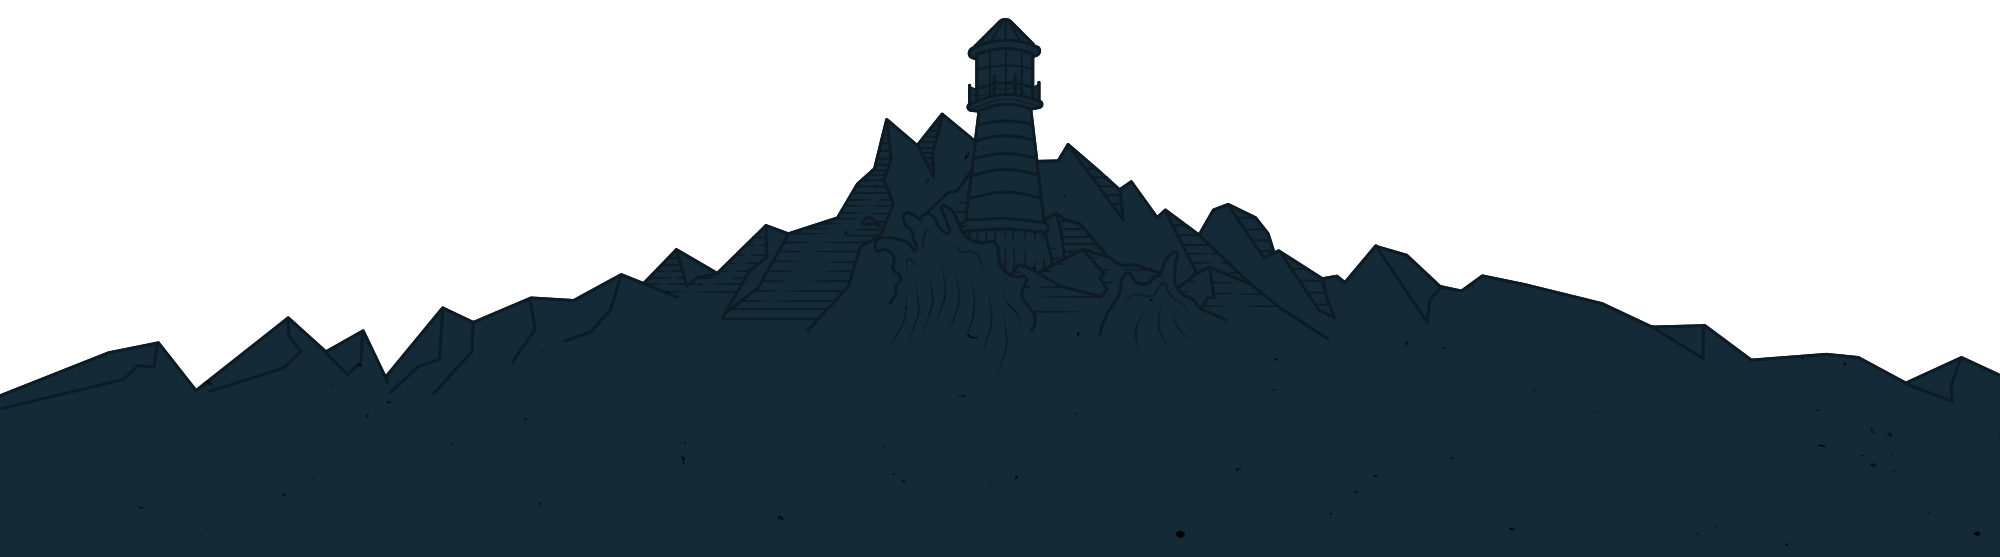
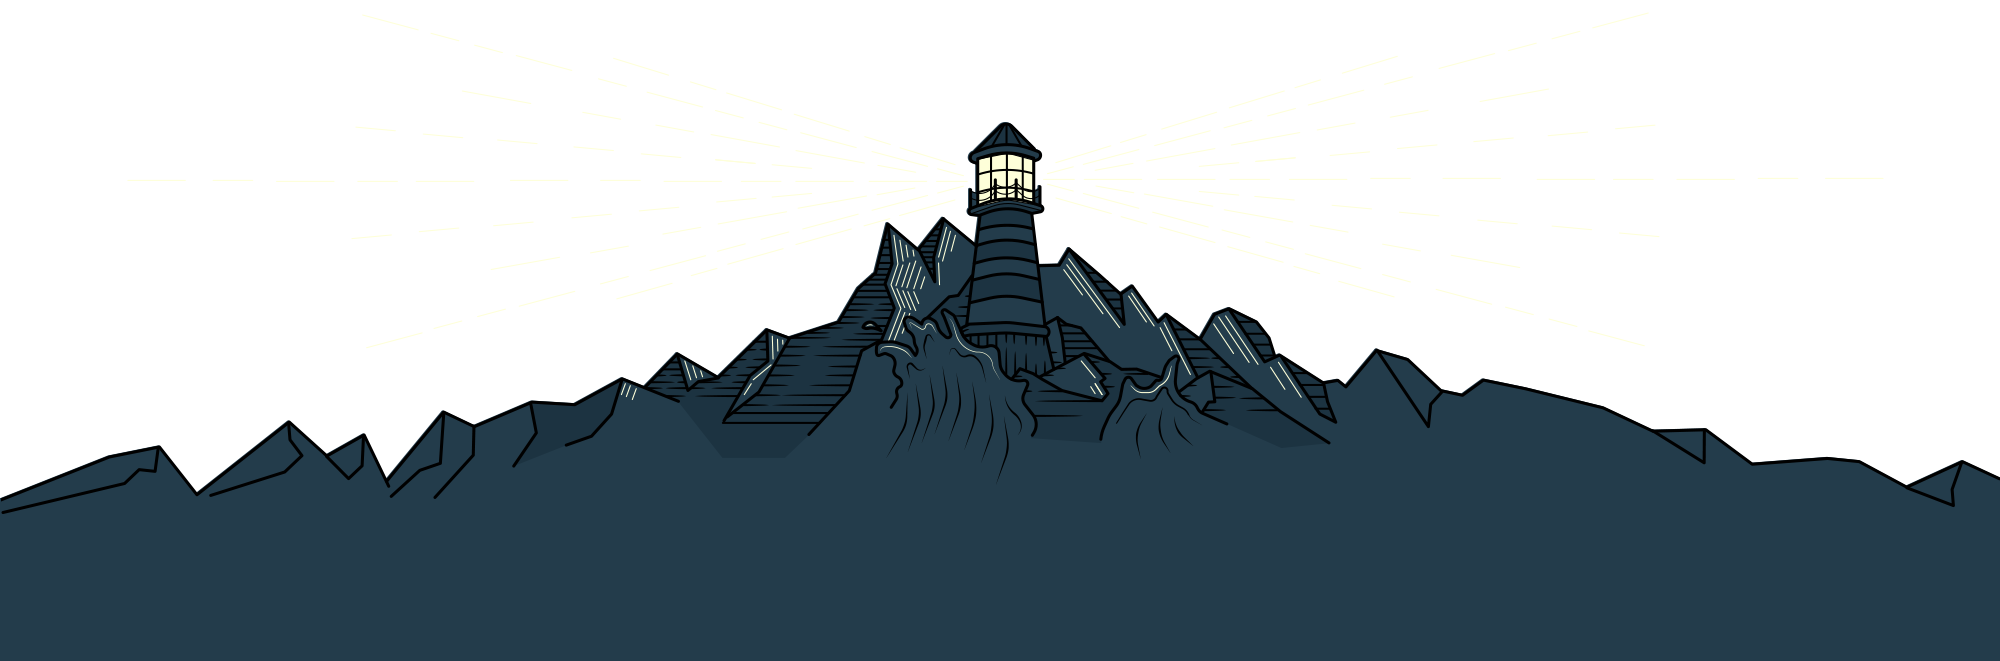
light house updated

Changed region(s): [[0.0, 0.0305, 1.0, 0.763]]

diff --git a/_sass/_paralax.scss b/_sass/_paralax.scss
@@ -2,24 +2,6 @@
 // CSS only paralax
 // See http://keithclark.co.uk/articles/pure-css-parallax-websites/
 
-@media (max-width: 719px) {
-	.parallax__layer--0,
-	.parallax__layer--1,
-	.parallax__layer--2,
-	.parallax__layer--3,
-	.parallax__layer--4 {
-		display: none;
-	}
-	.parallax__layer.parallax__layer--5 {
-    	background: $dark-blue;
-	}
-	h2.white-font.center {
-    margin: 0;
-    padding: 25px;
-}
-
-}
-
 @media (min-width: 720px) {
 	.parallax {
 		perspective: 1px;
@@ -64,10 +46,10 @@
 	.parallax__layer--0 {
 		transform: paralax(-2.5px);
 		background:$dark-blue;
-	    background: -webkit-linear-gradient(#0C1B24, #1A313F); /* For Safari 5.1 to 6.0 */
-	    background: -o-linear-gradient(#0C1B24, #1A313F); /* For Opera 11.1 to 12.0 */
-	    background: -moz-linear-gradient(#0C1B24, #1A313F); /* For Firefox 3.6 to 15 */
-	    background: linear-gradient(#0C1B24, #1A313F); /* Standard syntax (must be last) */
+	    background: -webkit-linear-gradient(#0C1B24, #2B4F65); /* For Safari 5.1 to 6.0 */
+	    background: -o-linear-gradient(#0C1B24, #2B4F65); /* For Opera 11.1 to 12.0 */
+	    background: -moz-linear-gradient(#0C1B24, #2B4F65); /* For Firefox 3.6 to 15 */
+	    background: linear-gradient(#0C1B24, #2B4F65); /* Standard syntax (must be last) */
 		> img {
 			position: absolute;
 			top: 5%;
@@ -89,13 +71,11 @@
 		}
 	}
 
-
-
 	.parallax__layer--2 {
 		transform: paralax(-0.5px);
 		> img {
 			position: absolute;
-			top: 65%;
+			top: 55%;
 			left: 0;
 			width: 100%;
 		}
@@ -146,4 +126,46 @@
 	    	
 		}	
 	}
+}
+
+@media (max-width: 1020px) {
+	.parallax__layer--2 {
+		transform: paralax(-0.5px);
+		> img {
+			top: 70%;
+		}
+	}
+
+	.parallax__layer--3 {
+		transform: paralax(-0.4px);
+		> img {
+			top: 90%;
+		}
+	}
+
+	.parallax__layer--4 {
+		// don't paralax this one
+		transform: paralax(-0.3px);
+		> img {
+			top: 90%;
+		}
+	}
+}
+
+@media (max-width: 719px) {
+	.parallax__layer--0,
+	.parallax__layer--1,
+	.parallax__layer--2,
+	.parallax__layer--3,
+	.parallax__layer--4 {
+		display: none;
+	}
+	.parallax__layer.parallax__layer--5 {
+    	background: $dark-blue;
+	}
+	h2.white-font.center {
+    margin: 0;
+    padding: 25px;
+	}
+
 }

diff --git a/_sass/base-styles.scss b/_sass/base-styles.scss
@@ -133,7 +133,7 @@ h3,{
 
 // Nav
 .nav-wrapper{
-	background-color: $blue;
+	background-color: $charcoal;
 	background-image:url("/img/spec.png");
 	background-repeat: repeat;
 
@@ -451,9 +451,9 @@ h3,{
 // Footer
 
 footer{
-	background-color: rgba(12, 27, 36,0.9);
+	background-color: rgba(27, 32, 36, 0.9);
 	padding: 0 25px;
-	border-top: solid 3px $dark-blue;
+	border-top: solid 3px $charcoal-dark;
 }
 
 .footer-wrapper{
@@ -512,7 +512,7 @@ footer{
 	    position: absolute;
 	    width: 100%;
 	    z-index: 200;
-	    background-color: $blue;
+	    background-color: $charcoal;
     background-image: url("/img/spec.png");
     background-repeat: repeat;
 	}
@@ -552,7 +552,7 @@ footer{
 	
 	.nav-toggle-active .nav-main {
     	top: 0;
-    	border-bottom: solid 3px $blue;
+    	border-bottom: solid 3px $charcoal;
     	-webkit-transition: all .8s ease-in-out;
 	    -moz-transition: all .8s ease-in-out;
 	    -o-transition: all .8s ease-in-out;
@@ -567,7 +567,7 @@ footer{
 	.nav-item-wrapper {
     	display: block;
     	width: 100%;
-    	background-color:$dark-blue;
+    	background-color:$charcoal-dark;
 	}
 	.hero-wrapper h1{
 		padding-top: 50px;
@@ -630,7 +630,7 @@ footer{
 	    overflow: auto;
 	    z-index: 20;
 	    min-height: 600px;
-	    border-right: solid 3px $dark-blue;
+	    border-right: solid 3px $charcoal-dark;
 	}
 	.menu-toggle-wrapper {
     	display: none;

diff --git a/css/style.scss b/css/style.scss
@@ -19,6 +19,8 @@ $ash-light: #DFDFDF;
 $ash: #434242;
 $red: #cf443a;
 
+$charcoal: #21272A;
+$charcoal-dark: #141617;
 //Imports
 @import "base-styles";
 @import "paralax";
@@ -26,5 +28,5 @@ $red: #cf443a;
 
 
 h1 {
-	color: $primary-colour;
+	color: $charcoal;
 }
